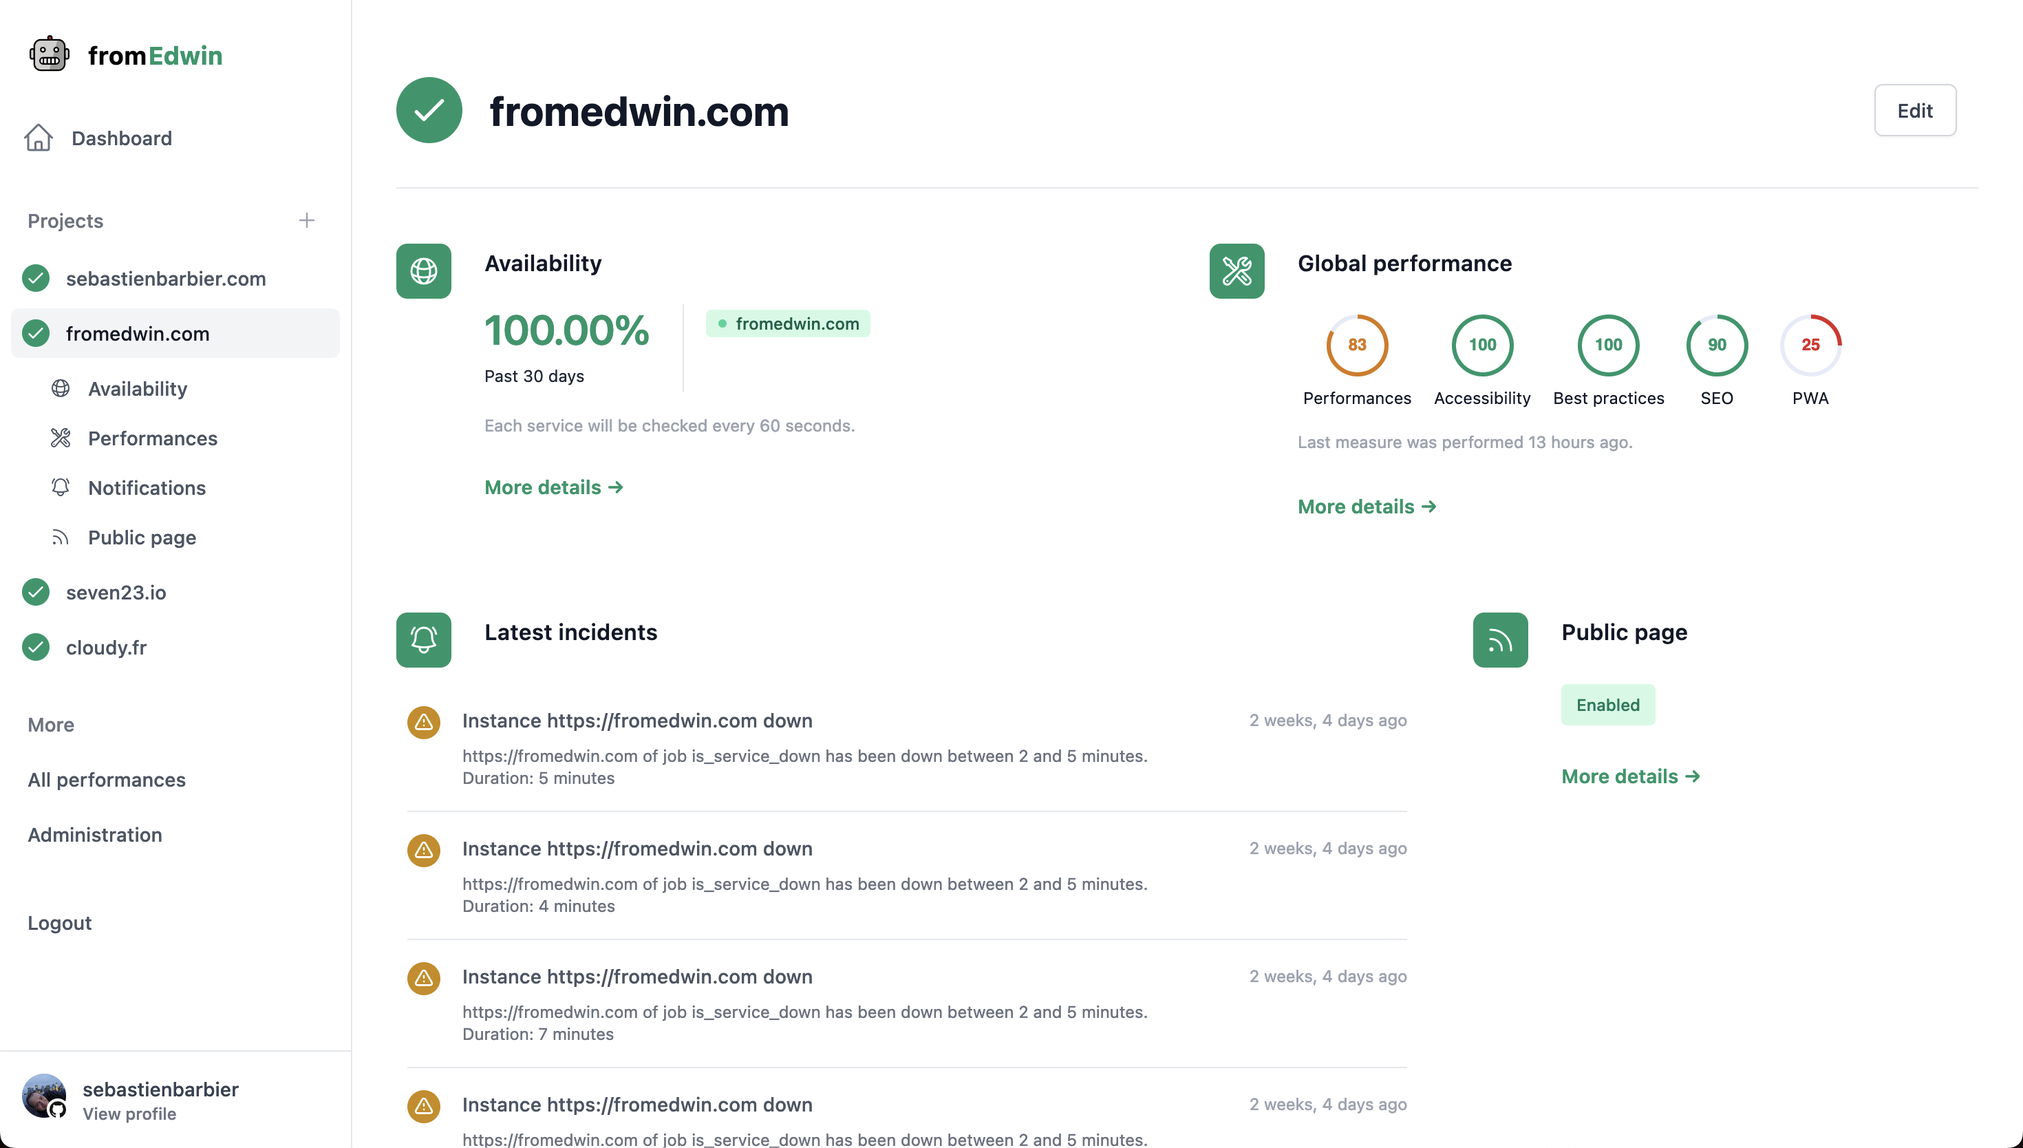
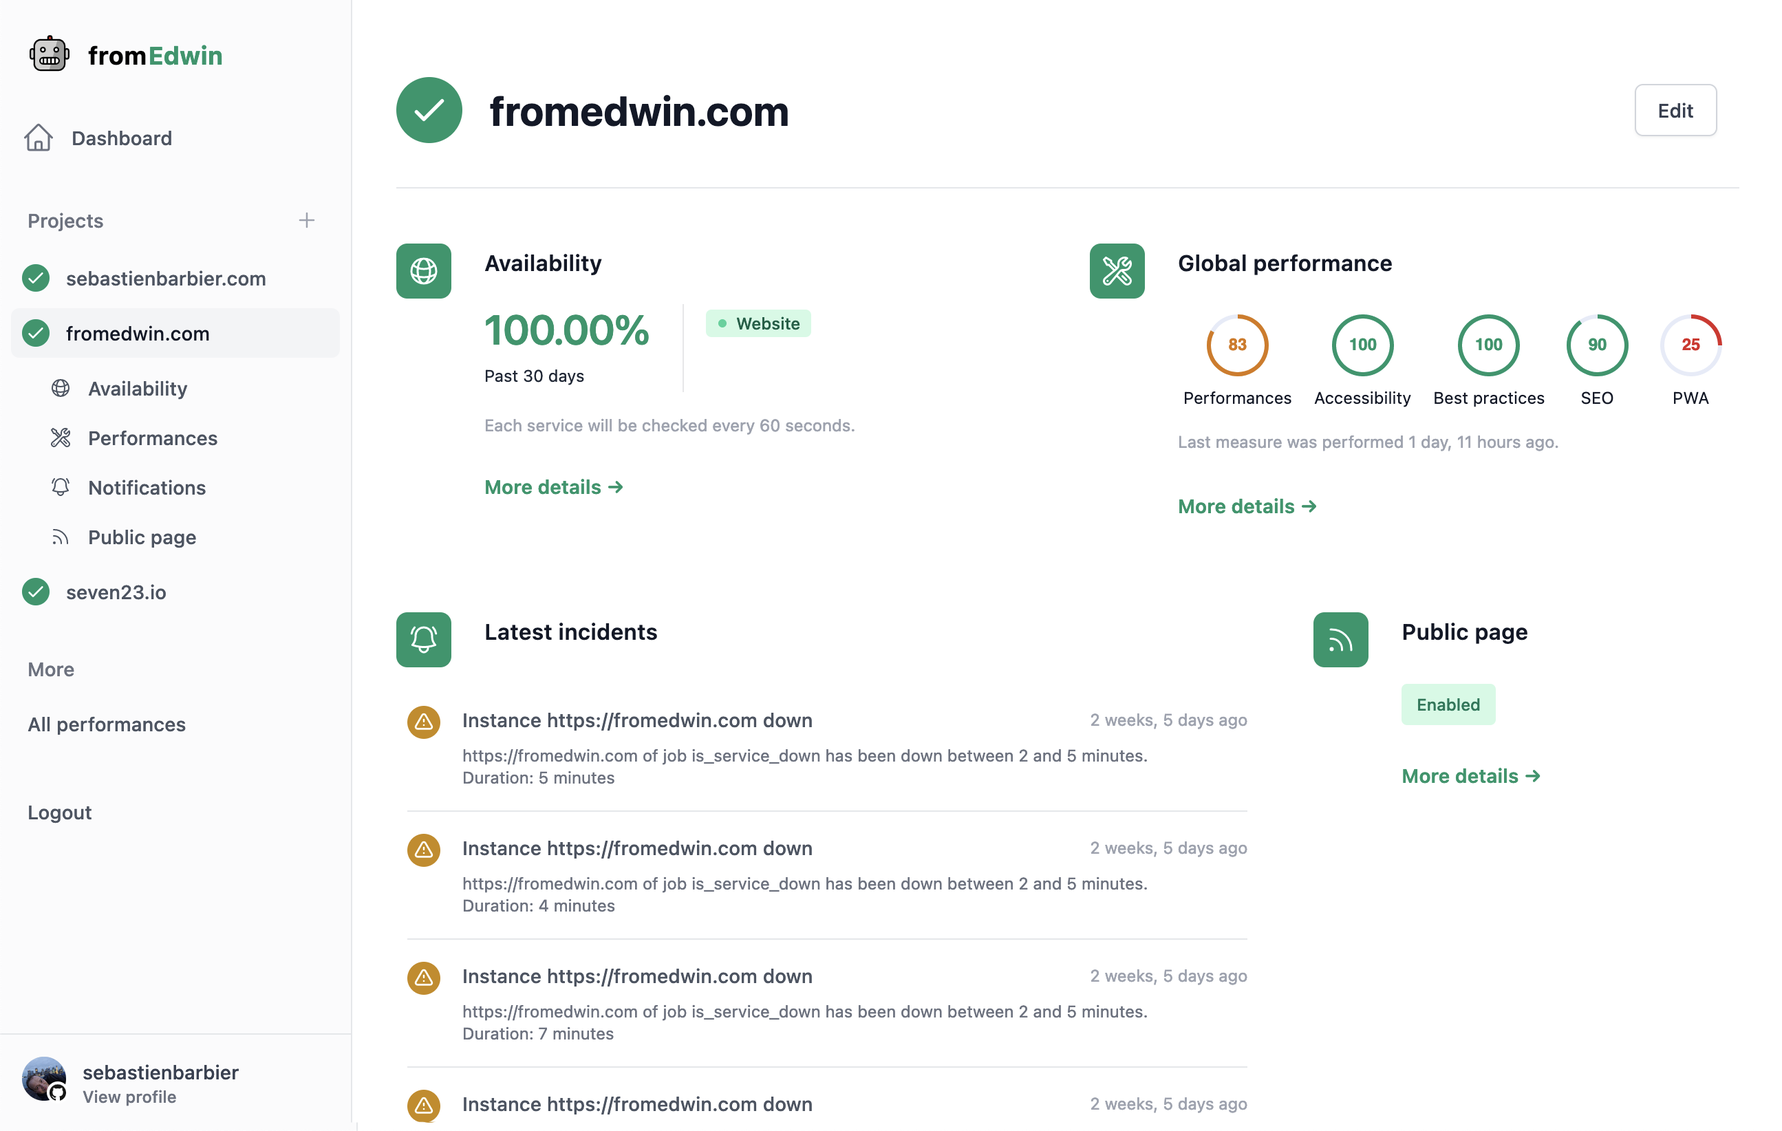
Make sidebar darker with new screenshots on homepage

diff --git a/django/fromedwin/templates/application.html b/django/fromedwin/templates/application.html
@@ -58,7 +58,7 @@
           </div>
           <nav class="mt-5 space-y-1 px-2">
             {% starts_with request.path '/dashboard' as is_selected %}
-            <a href="{% url 'dashboard' %}" class="{% if is_selected %}bg-gray-100 text-gray-900 group flex items-center rounded-md px-2 py-2 text-base font-medium{% else %}text-gray-600 hover:bg-gray-50 hover:text-gray-900 group flex items-center rounded-md px-2 py-2 text-base font-medium{% endif %}">
+            <a href="{% url 'dashboard' %}" class="{% if is_selected %}bg-gray-100 text-gray-900 group flex items-center rounded-md px-2 py-2 text-base font-medium{% else %}text-gray-600 hover:bg-gray-100 hover:text-gray-900 group flex items-center rounded-md px-2 py-2 text-base font-medium{% endif %}">
               <!-- Current: "text-gray-500", Default: "text-gray-400 group-hover:text-gray-500" -->
               <svg class="text-gray-500 mr-4 h-6 w-6 flex-shrink-0" fill="none" viewBox="0 0 24 24" stroke-width="1.5" stroke="currentColor" aria-hidden="true">
                 <path stroke-linecap="round" stroke-linejoin="round" d="M2.25 12l8.954-8.955c.44-.439 1.152-.439 1.591 0L21.75 12M4.5 9.75v10.125c0 .621.504 1.125 1.125 1.125H9.75v-4.875c0-.621.504-1.125 1.125-1.125h2.25c.621 0 1.125.504 1.125 1.125V21h4.125c.621 0 1.125-.504 1.125-1.125V9.75M8.25 21h8.25" />
@@ -88,7 +88,7 @@
 
               {% starts_with request.path app.url as is_project_selected %}
 
-              <a href="{% url 'project' app.id %}" class="{% if is_project_view %}bg-gray-100 text-gray-900 group flex items-center rounded-md px-2 py-2 text-md font-medium{% else %}text-gray-600 hover:bg-gray-50 hover:text-gray-900 group flex items-center rounded-md px-2 py-2 text-md font-medium{% endif %}">
+              <a href="{% url 'project' app.id %}" class="{% if is_project_view %}bg-gray-100 text-gray-900 group flex items-center rounded-md px-2 py-2 text-md font-medium{% else %}text-gray-600 hover:bg-gray-100 hover:text-gray-900 group flex items-center rounded-md px-2 py-2 text-md font-medium{% endif %}">
                 <!-- <svg class="text-gray-400 group-hover:text-gray-500 mr-3 h-6 w-6 flex-shrink-0" fill="none" viewBox="0 0 24 24" stroke-width="1.5" stroke="currentColor" aria-hidden="true">
                   <path stroke-linecap="round" stroke-linejoin="round" d="M15 19.128a9.38 9.38 0 002.625.372 9.337 9.337 0 004.121-.952 4.125 4.125 0 00-7.533-2.493M15 19.128v-.003c0-1.113-.285-2.16-.786-3.07M15 19.128v.106A12.318 12.318 0 018.624 21c-2.331 0-4.512-.645-6.374-1.766l-.001-.109a6.375 6.375 0 0111.964-3.07M12 6.375a3.375 3.375 0 11-6.75 0 3.375 3.375 0 016.75 0zm8.25 2.25a2.625 2.625 0 11-5.25 0 2.625 2.625 0 015.25 0z" />
                 </svg> -->
@@ -114,25 +114,25 @@
 
                 {% if is_project_selected %}
                 <div class="flex flex-col">
-                  <a href="{% url 'project_availability' app.id %}" class="group flex w-full items-center rounded-md py-2 ml-2 pl-3 text-md font-medium text-gray-600 hover:bg-gray-50 hover:text-gray-900 {% if is_availability or is_incident %}bg-gray-100 text-gray-900{% endif %}">
+                  <a href="{% url 'project_availability' app.id %}" class="group flex w-full items-center rounded-md py-2 ml-2 pl-3 text-md font-medium text-gray-600 hover:bg-gray-100 hover:text-gray-900 {% if is_availability or is_incident %}bg-gray-100 text-gray-900{% endif %}">
                     <svg xmlns="http://www.w3.org/2000/svg" fill="none" viewBox="0 0 24 24" stroke-width="1.5" stroke="currentColor" class="w-4 h-4 mr-3">
                       <path stroke-linecap="round" stroke-linejoin="round" d="M12 21a9.004 9.004 0 008.716-6.747M12 21a9.004 9.004 0 01-8.716-6.747M12 21c2.485 0 4.5-4.03 4.5-9S14.485 3 12 3m0 18c-2.485 0-4.5-4.03-4.5-9S9.515 3 12 3m0 0a8.997 8.997 0 017.843 4.582M12 3a8.997 8.997 0 00-7.843 4.582m15.686 0A11.953 11.953 0 0112 10.5c-2.998 0-5.74-1.1-7.843-2.918m15.686 0A8.959 8.959 0 0121 12c0 .778-.099 1.533-.284 2.253m0 0A17.919 17.919 0 0112 16.5c-3.162 0-6.133-.815-8.716-2.247m0 0A9.015 9.015 0 013 12c0-1.605.42-3.113 1.157-4.418" />
                     </svg> Availability
                   </a>
 
-                  <a href="{% url 'project_performances' app.id %}" class="group flex w-full items-center rounded-md py-2 ml-2 pl-3 text-md font-medium text-gray-600 hover:bg-gray-50 hover:text-gray-900 {% if is_performance %}bg-gray-100 text-gray-900{% endif %}">
+                  <a href="{% url 'project_performances' app.id %}" class="group flex w-full items-center rounded-md py-2 ml-2 pl-3 text-md font-medium text-gray-600 hover:bg-gray-100 hover:text-gray-900 {% if is_performance %}bg-gray-100 text-gray-900{% endif %}">
                     <svg xmlns="http://www.w3.org/2000/svg" fill="none" viewBox="0 0 24 24" stroke-width="1.5" stroke="currentColor" class="w-4 h-4 mr-3">
                       <path stroke-linecap="round" stroke-linejoin="round" d="M11.42 15.17L17.25 21A2.652 2.652 0 0021 17.25l-5.877-5.877M11.42 15.17l2.496-3.03c.317-.384.74-.626 1.208-.766M11.42 15.17l-4.655 5.653a2.548 2.548 0 11-3.586-3.586l6.837-5.63m5.108-.233c.55-.164 1.163-.188 1.743-.14a4.5 4.5 0 004.486-6.336l-3.276 3.277a3.004 3.004 0 01-2.25-2.25l3.276-3.276a4.5 4.5 0 00-6.336 4.486c.091 1.076-.071 2.264-.904 2.95l-.102.085m-1.745 1.437L5.909 7.5H4.5L2.25 3.75l1.5-1.5L7.5 4.5v1.409l4.26 4.26m-1.745 1.437l1.745-1.437m6.615 8.206L15.75 15.75M4.867 19.125h.008v.008h-.008v-.008z" />
                     </svg> Performances
                   </a>
 
-                  <a href="{% url 'project_notifications' app.id %}" class="group flex w-full items-center rounded-md py-2 ml-2 pl-3 text-md font-medium text-gray-600 hover:bg-gray-50 hover:text-gray-900 {% if is_notifications %}bg-gray-100 text-gray-900{% endif %}">
+                  <a href="{% url 'project_notifications' app.id %}" class="group flex w-full items-center rounded-md py-2 ml-2 pl-3 text-md font-medium text-gray-600 hover:bg-gray-100 hover:text-gray-900 {% if is_notifications %}bg-gray-100 text-gray-900{% endif %}">
                     <svg xmlns="http://www.w3.org/2000/svg" fill="none" viewBox="0 0 24 24" stroke-width="1.5" stroke="currentColor" class="w-4 h-4 mr-3">
                       <path stroke-linecap="round" stroke-linejoin="round" d="M14.857 17.082a23.848 23.848 0 005.454-1.31A8.967 8.967 0 0118 9.75v-.7V9A6 6 0 006 9v.75a8.967 8.967 0 01-2.312 6.022c1.733.64 3.56 1.085 5.455 1.31m5.714 0a24.255 24.255 0 01-5.714 0m5.714 0a3 3 0 11-5.714 0M3.124 7.5A8.969 8.969 0 015.292 3m13.416 0a8.969 8.969 0 012.168 4.5" />
                     </svg> Notifications
                   </a>
 
-                  <a href="{% url 'project_status_public' app.id %}" class="group flex w-full items-center rounded-md py-2 ml-2 pl-3 text-md font-medium text-gray-600 hover:bg-gray-50 hover:text-gray-900 {% if is_status_public %}bg-gray-100 text-gray-900{% endif %}">
+                  <a href="{% url 'project_status_public' app.id %}" class="group flex w-full items-center rounded-md py-2 ml-2 pl-3 text-md font-medium text-gray-600 hover:bg-gray-100 hover:text-gray-900 {% if is_status_public %}bg-gray-100 text-gray-900{% endif %}">
                     <svg xmlns="http://www.w3.org/2000/svg" fill="none" viewBox="0 0 24 24" stroke-width="1.5" stroke="currentColor" class="w-4 h-4 mr-3">
                       <path stroke-linecap="round" stroke-linejoin="round" d="M12.75 19.5v-.75a7.5 7.5 0 00-7.5-7.5H4.5m0-6.75h.75c7.87 0 14.25 6.38 14.25 14.25v.75M6 18.75a.75.75 0 11-1.5 0 .75.75 0 011.5 0z" />
                     </svg> Public page
@@ -144,19 +144,19 @@
             <h3 class="px-3 py-2 text-md font-medium text-gray-500 pt-6" id="projects-headline">More</h3>
             <div class="space-y-1" role="group" aria-labelledby="projects-headline">
               {% starts_with request.path '/performances' as is_selected %}
-              <a href="{% url 'performances_all' %}" class="{% if is_selected %}bg-gray-100 text-gray-900 hover:bg-gray-50 hover:text-gray-900 group flex items-center rounded-md px-2 py-2 text-base font-medium{% else %}text-gray-600 hover:bg-gray-50 hover:text-gray-900 group flex items-center rounded-md px-2 py-2 text-base font-medium{% endif %}">
+              <a href="{% url 'performances_all' %}" class="{% if is_selected %}bg-gray-100 text-gray-900 hover:bg-gray-100 hover:text-gray-900 group flex items-center rounded-md px-2 py-2 text-base font-medium{% else %}text-gray-600 hover:bg-gray-100 hover:text-gray-900 group flex items-center rounded-md px-2 py-2 text-base font-medium{% endif %}">
                 <span class="truncate">All performances</span>
               </a>
 
               {% if user.is_staff %}
               {% starts_with request.path '/administration' as is_selected %}
-              <a href="{% url 'administration' %}" class="{% if is_selected %}bg-gray-100 text-gray-900 hover:bg-gray-50 hover:text-gray-900 group flex items-center rounded-md px-2 py-2 text-base font-medium{% else %}text-gray-600 hover:bg-gray-50 hover:text-gray-900 group flex items-center rounded-md px-2 py-2 text-base font-medium{% endif %}">
+              <a href="{% url 'administration' %}" class="{% if is_selected %}bg-gray-100 text-gray-900 hover:bg-gray-100 hover:text-gray-900 group flex items-center rounded-md px-2 py-2 text-base font-medium{% else %}text-gray-600 hover:bg-gray-100 hover:text-gray-900 group flex items-center rounded-md px-2 py-2 text-base font-medium{% endif %}">
                 <span class="truncate">Administration</span>
               </a>
               {% endif %}
             </div>
 
-            <a href="{% url 'logout' %}?next=/" class="text-gray-600 hover:bg-gray-50 hover:text-gray-900 group flex items-center rounded-md px-2 py-2 text-base font-medium">
+            <a href="{% url 'logout' %}?next=/" class="text-gray-600 hover:bg-gray-100 hover:text-gray-900 group flex items-center rounded-md px-2 py-2 text-base font-medium">
               Logout
             </a>
 
@@ -203,18 +203,18 @@
   </div>
 
   <!-- Static sidebar for desktop -->
-  <div class="hidden lg:fixed lg:inset-y-0 lg:flex lg:w-64 lg:flex-col">
+  <div class="hidden lg:fixed lg:inset-y-0 lg:flex lg:w-64 lg:flex-col bg-white">
     <!-- Sidebar component, swap this element with another sidebar if you like -->
-    <div class="flex min-h-0 flex-1 flex-col border-r border-gray-200 bg-white">
-      <div class="flex flex-1 flex-col overflow-y-auto pt-5 pb-4">
+    <div class="flex min-h-0 flex-1 flex-col border-r border-gray-200">
+      <div class="flex flex-1 flex-col overflow-y-auto pt-5 pb-4 bg-gray-50/75">
         <div class="flex flex-shrink-0 items-center px-4 text-lg font-bold">
           <a href="{% url 'dashboard' %}" class="flex items-center"><img class="inline-block h-10 w-auto pr-2" src="{% static 'favicon.svg' %}" alt="FromEdwin"> <span style="padding-right: 1px">from</span><span class="text-emerald-600">Edwin</span></a>
         </div>
-        <nav class="mt-5 flex-1 space-y-1 bg-white px-2">
-          <!-- Current: "bg-gray-100 text-gray-900", Default: "text-gray-600 hover:bg-gray-50 hover:text-gray-900" -->
+        <nav class="mt-5 flex-1 space-y-1 px-2">
+          <!-- Current: "bg-gray-100 text-gray-900", Default: "text-gray-600 hover:bg-gray-100 hover:text-gray-900" -->
 
           {% starts_with request.path '/dashboard' as is_selected %}
-          <a href="{% url 'dashboard' %}" class="{% if is_selected %}bg-gray-100 text-gray-900 group flex items-center rounded-md px-2 py-2 text-sm font-medium{% else %}text-gray-600 hover:bg-gray-50 hover:text-gray-900 group flex items-center rounded-md px-2 py-2 text-sm font-medium{% endif %}">
+          <a href="{% url 'dashboard' %}" class="{% if is_selected %}bg-gray-100 text-gray-900 group flex items-center rounded-md px-2 py-2 text-sm font-medium{% else %}text-gray-600 hover:bg-gray-100 hover:text-gray-900 group flex items-center rounded-md px-2 py-2 text-sm font-medium{% endif %}">
             <!-- Current: "text-gray-500", Default: "text-gray-400 group-hover:text-gray-500" -->
             <svg class="text-gray-500 mr-3 h-6 w-6 flex-shrink-0" fill="none" viewBox="0 0 24 24" stroke-width="1.5" stroke="currentColor" aria-hidden="true">
               <path stroke-linecap="round" stroke-linejoin="round" d="M2.25 12l8.954-8.955c.44-.439 1.152-.439 1.591 0L21.75 12M4.5 9.75v10.125c0 .621.504 1.125 1.125 1.125H9.75v-4.875c0-.621.504-1.125 1.125-1.125h2.25c.621 0 1.125.504 1.125 1.125V21h4.125c.621 0 1.125-.504 1.125-1.125V9.75M8.25 21h8.25" />
@@ -244,7 +244,7 @@
 
           {% starts_with request.path app.url as is_project_selected %}
 
-          <a href="{% url 'project' app.id %}" class="{% if is_project_view %}bg-gray-100 text-gray-900 group flex items-center rounded-md px-2 py-2 text-sm font-medium{% else %}text-gray-600 hover:bg-gray-50 hover:text-gray-900 group flex items-center rounded-md px-2 py-2 text-sm font-medium{% endif %}">
+          <a href="{% url 'project' app.id %}" class="{% if is_project_view %}bg-gray-100 text-gray-900 group flex items-center rounded-md px-2 py-2 text-sm font-medium{% else %}text-gray-600 hover:bg-gray-100 hover:text-gray-900 group flex items-center rounded-md px-2 py-2 text-sm font-medium{% endif %}">
             <!-- <svg class="text-gray-400 group-hover:text-gray-500 mr-3 h-6 w-6 flex-shrink-0" fill="none" viewBox="0 0 24 24" stroke-width="1.5" stroke="currentColor" aria-hidden="true">
               <path stroke-linecap="round" stroke-linejoin="round" d="M15 19.128a9.38 9.38 0 002.625.372 9.337 9.337 0 004.121-.952 4.125 4.125 0 00-7.533-2.493M15 19.128v-.003c0-1.113-.285-2.16-.786-3.07M15 19.128v.106A12.318 12.318 0 018.624 21c-2.331 0-4.512-.645-6.374-1.766l-.001-.109a6.375 6.375 0 0111.964-3.07M12 6.375a3.375 3.375 0 11-6.75 0 3.375 3.375 0 016.75 0zm8.25 2.25a2.625 2.625 0 11-5.25 0 2.625 2.625 0 015.25 0z" />
             </svg> -->
@@ -270,26 +270,26 @@
 
             {% if is_project_selected %}
             <div class="flex flex-col pl-4">
-              <a href="{% url 'project_availability' app.id %}" class="py-2 pl-3 text-sm font-medium text-gray-600 hover:bg-gray-50 hover:text-gray-900 group flex w-full items-center rounded-md {% if is_availability or is_incident %}bg-gray-100 text-gray-900{% endif %}">
+              <a href="{% url 'project_availability' app.id %}" class="py-2 pl-3 text-sm font-medium text-gray-600 hover:bg-gray-100 hover:text-gray-900 group flex w-full items-center rounded-md {% if is_availability or is_incident %}bg-gray-100 text-gray-900{% endif %}">
                 <svg xmlns="http://www.w3.org/2000/svg" fill="none" viewBox="0 0 24 24" stroke-width="1.5" stroke="currentColor" class="w-4 h-4 mr-3">
                   <path stroke-linecap="round" stroke-linejoin="round" d="M12 21a9.004 9.004 0 008.716-6.747M12 21a9.004 9.004 0 01-8.716-6.747M12 21c2.485 0 4.5-4.03 4.5-9S14.485 3 12 3m0 18c-2.485 0-4.5-4.03-4.5-9S9.515 3 12 3m0 0a8.997 8.997 0 017.843 4.582M12 3a8.997 8.997 0 00-7.843 4.582m15.686 0A11.953 11.953 0 0112 10.5c-2.998 0-5.74-1.1-7.843-2.918m15.686 0A8.959 8.959 0 0121 12c0 .778-.099 1.533-.284 2.253m0 0A17.919 17.919 0 0112 16.5c-3.162 0-6.133-.815-8.716-2.247m0 0A9.015 9.015 0 013 12c0-1.605.42-3.113 1.157-4.418" />
                 </svg>Availability
               </a>
 
-              <a href="{% url 'project_performances' app.id %}" class="py-2 pl-3 text-sm font-medium text-gray-600 hover:bg-gray-50 hover:text-gray-900 group flex w-full items-center rounded-md {% if is_performance %}bg-gray-100 text-gray-900{% endif %}">
+              <a href="{% url 'project_performances' app.id %}" class="py-2 pl-3 text-sm font-medium text-gray-600 hover:bg-gray-100 hover:text-gray-900 group flex w-full items-center rounded-md {% if is_performance %}bg-gray-100 text-gray-900{% endif %}">
                 <svg xmlns="http://www.w3.org/2000/svg" fill="none" viewBox="0 0 24 24" stroke-width="1.5" stroke="currentColor" class="w-4 h-4 mr-3">
                   <path stroke-linecap="round" stroke-linejoin="round" d="M11.42 15.17L17.25 21A2.652 2.652 0 0021 17.25l-5.877-5.877M11.42 15.17l2.496-3.03c.317-.384.74-.626 1.208-.766M11.42 15.17l-4.655 5.653a2.548 2.548 0 11-3.586-3.586l6.837-5.63m5.108-.233c.55-.164 1.163-.188 1.743-.14a4.5 4.5 0 004.486-6.336l-3.276 3.277a3.004 3.004 0 01-2.25-2.25l3.276-3.276a4.5 4.5 0 00-6.336 4.486c.091 1.076-.071 2.264-.904 2.95l-.102.085m-1.745 1.437L5.909 7.5H4.5L2.25 3.75l1.5-1.5L7.5 4.5v1.409l4.26 4.26m-1.745 1.437l1.745-1.437m6.615 8.206L15.75 15.75M4.867 19.125h.008v.008h-.008v-.008z" />
                 </svg>
                  Performances
               </a>
 
-              <a href="{% url 'project_notifications' app.id %}" class="py-2 pl-3 text-sm font-medium text-gray-600 hover:bg-gray-50 hover:text-gray-900 group flex w-full items-center rounded-md {% if is_notifications %}bg-gray-100 text-gray-900{% endif %}">
+              <a href="{% url 'project_notifications' app.id %}" class="py-2 pl-3 text-sm font-medium text-gray-600 hover:bg-gray-100 hover:text-gray-900 group flex w-full items-center rounded-md {% if is_notifications %}bg-gray-100 text-gray-900{% endif %}">
                 <svg xmlns="http://www.w3.org/2000/svg" fill="none" viewBox="0 0 24 24" stroke-width="1.5" stroke="currentColor" class="w-4 h-4 mr-3">
                   <path stroke-linecap="round" stroke-linejoin="round" d="M14.857 17.082a23.848 23.848 0 005.454-1.31A8.967 8.967 0 0118 9.75v-.7V9A6 6 0 006 9v.75a8.967 8.967 0 01-2.312 6.022c1.733.64 3.56 1.085 5.455 1.31m5.714 0a24.255 24.255 0 01-5.714 0m5.714 0a3 3 0 11-5.714 0M3.124 7.5A8.969 8.969 0 015.292 3m13.416 0a8.969 8.969 0 012.168 4.5" />
                 </svg> Notifications
               </a>
 
-              <a href="{% url 'project_status_public' app.id %}" class="py-2 pl-3 text-sm font-medium text-gray-600 hover:bg-gray-50 hover:text-gray-900 group flex w-full items-center rounded-md {% if is_status_public %}bg-gray-100 text-gray-900{% endif %}">
+              <a href="{% url 'project_status_public' app.id %}" class="py-2 pl-3 text-sm font-medium text-gray-600 hover:bg-gray-100 hover:text-gray-900 group flex w-full items-center rounded-md {% if is_status_public %}bg-gray-100 text-gray-900{% endif %}">
                 <svg xmlns="http://www.w3.org/2000/svg" fill="none" viewBox="0 0 24 24" stroke-width="1.5" stroke="currentColor" class="w-4 h-4 mr-3">
                   <path stroke-linecap="round" stroke-linejoin="round" d="M12.75 19.5v-.75a7.5 7.5 0 00-7.5-7.5H4.5m0-6.75h.75c7.87 0 14.25 6.38 14.25 14.25v.75M6 18.75a.75.75 0 11-1.5 0 .75.75 0 011.5 0z" />
                 </svg> Public page
@@ -302,26 +302,26 @@
           <div class="space-y-1" role="group" aria-labelledby="projects-headline">
 
             {% starts_with request.path '/performances' as is_selected %}
-            <a href="{% url 'performances_all' %}" class="{% if is_selected %}bg-gray-100 text-gray-900 group flex items-center rounded-md px-3 py-2 text-sm font-medium{% else %}group flex items-center rounded-md px-3 py-2 text-sm font-medium text-gray-600 hover:bg-gray-50 hover:text-gray-900{% endif %}">
+            <a href="{% url 'performances_all' %}" class="{% if is_selected %}bg-gray-100 text-gray-900 group flex items-center rounded-md px-3 py-2 text-sm font-medium{% else %}group flex items-center rounded-md px-3 py-2 text-sm font-medium text-gray-600 hover:bg-gray-100 hover:text-gray-900{% endif %}">
               <span class="truncate">All performances</span>
             </a>
 
             {% if user.is_staff %}
             {% starts_with request.path '/administration' as is_selected %}
-            <a href="{% url 'administration' %}" class="{% if is_selected %}bg-gray-100 text-gray-900 group flex items-center rounded-md px-3 py-2 text-sm font-medium{% else %}group flex items-center rounded-md px-3 py-2 text-sm font-medium text-gray-600 hover:bg-gray-50 hover:text-gray-900{% endif %}">
+            <a href="{% url 'administration' %}" class="{% if is_selected %}bg-gray-100 text-gray-900 group flex items-center rounded-md px-3 py-2 text-sm font-medium{% else %}group flex items-center rounded-md px-3 py-2 text-sm font-medium text-gray-600 hover:bg-gray-100 hover:text-gray-900{% endif %}">
               <span class="truncate">Administration</span>
             </a>
             {% endif %}
 
             <div class="pt-6">
-              <a href="{% url 'logout' %}?next=/" class="group flex items-center rounded-md px-3 py-2 text-sm font-medium text-gray-600 hover:bg-gray-50 hover:text-gray-900">
+              <a href="{% url 'logout' %}?next=/" class="group flex items-center rounded-md px-3 py-2 text-sm font-medium text-gray-600 hover:bg-gray-100 hover:text-gray-900">
                 <span class="truncate">Logout</span>
               </a>
             </div>
           </div>
         </nav>
       </div>
-      <div class="flex flex-shrink-0 border-t border-gray-200 p-4">
+      <div class="flex flex-shrink-0 border-t border-gray-200 p-4 bg-gray-50/75">
         <a href="{% url 'settings' %}" class="group block w-full flex-shrink-0">
           <div class="flex items-center">
             <div>
